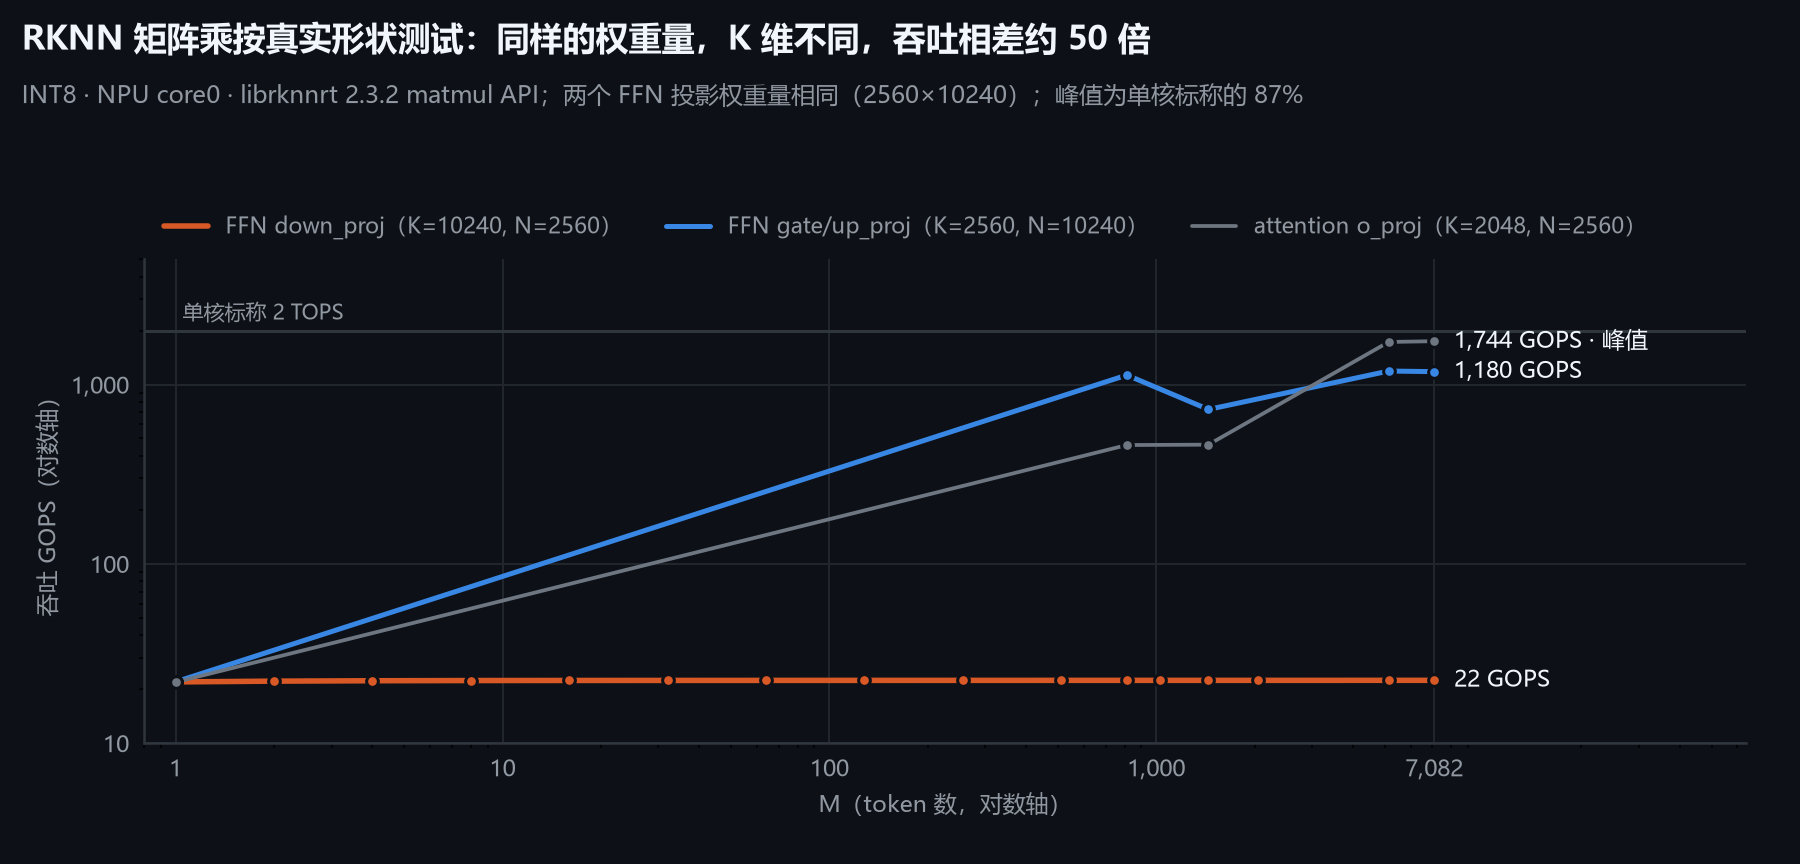
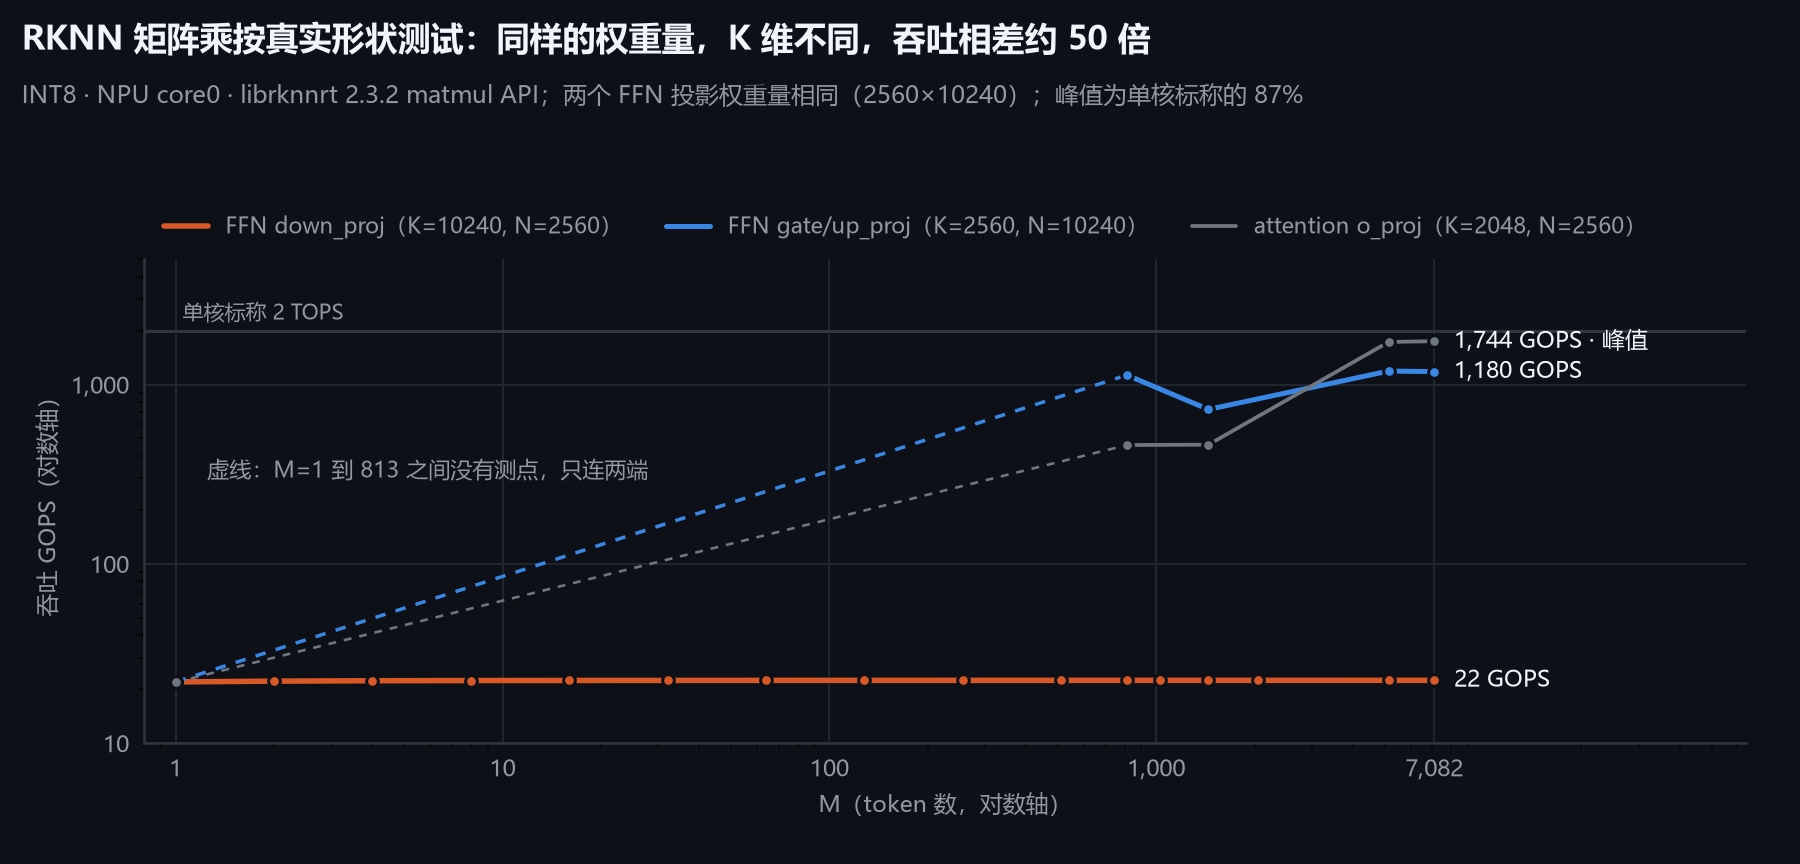
docs: 核心结果表把板端四行挪到最前；NPU 矩阵乘图里没有测点的一段改成虚线
gate/up_proj 和 o_proj 只测了 M = 1、813、1445、5142、7082，M=1 到 813 之间改成虚线并加注，
重新生成浅色、深色两张图。

diff --git a/docs/figures/make_figures.py b/docs/figures/make_figures.py
@@ -263,10 +263,17 @@ def fig_npu(t_name, t):
     for key, label, color, lw in lines:
         pts = sorted(s[key].items())
         xs, ys = [p[0] for p in pts], [p[1] for p in pts]
-        ax.plot(xs, ys, color=color, lw=lw, solid_capstyle="round", label=label, zorder=3)
+        # gate/up_proj and o_proj were only measured at M = 1, 813, 1445, 5142, 7082:
+        # nothing between 1 and 813, so that segment is dashed instead of implying a measured curve.
+        gap = len(xs) > 1 and xs[1] > 2
+        if gap:
+            ax.plot(xs[:2], ys[:2], color=color, lw=lw * 0.7, ls=(0, (3, 3)), zorder=3)
+        start = 1 if gap else 0
+        ax.plot(xs[start:], ys[start:], color=color, lw=lw, solid_capstyle="round", label=label, zorder=3)
         ax.scatter(xs, ys, s=22, color=color, edgecolor=t["surface"], linewidth=1.2, zorder=4)
         extra = " · 峰值" if key == (2048, 2560) else ""
         ax.text(xs[-1] * 1.15, ys[-1], f"{ys[-1]:,.0f} GOPS{extra}", fontsize=9, color=t["ink"], va="center")
+    ax.text(1.25, 330, "虚线：M=1 到 813 之间没有测点，只连两端", fontsize=8.8, color=t["ink2"], va="center")
     ax.set_xlim(0.8, 7082 * 9)
     ax.set_ylim(10, 5000)
     ax.set_xticks([1, 10, 100, 1000, 7082])

diff --git a/README.md b/README.md
@@ -13,13 +13,13 @@
 
 | 模块 | 结果 | 条件与基线 | 入口 |
 |---|---|---|---|
-| 数据治理 | 9 个来源 → **15.4 万条**规范 agent 轨迹 | 近重去重、13-gram 测试集去污染、脱敏、按源会话划分验证集 | [报告](docs/m0/05_data_pipeline.md) · [代码](scripts/m0/data/) |
-| SFT | 验证集 loss **1.630 → 0.839** | 双卡 DDP，QLoRA，4,096 步，token 加权损失 | [审计](results/m1/c01_s_completion_audit.md) |
-| 在线蒸馏 | 31B teacher → E4B student，**960 步** | teacher 由 vLLM 部署，rsLoRA，reverse-KL 近似目标 | [配置](configs/m1/t3_opd.yaml) |
 | 板端部署 | RKLLM **W8A8**，RK3588 NPU 单核 **16K 上下文**运行 | 补齐 54 个共享 KV 权重键，逐位校验 2,130 个张量 | [转换代码](scripts/operator/board/) |
 | 多核排障 | 定位为 **IOVA 4 GiB 窗口耗尽**（3 核缺口 44.9 MB） | ioctl 拦截 + ftrace 映射记录；CMA 仍有空闲 | [报告](docs/m0/06_board_smoke.md) |
 | ARM NEON | FP16 GEMV **5.84 → 2.92 ms（2.00×）** | 4×A76，K=10240、N=2560，较 GCC -O3 | [报告](docs/operator/EdgeForge_算子面_板端_OPE5_FP16_GEMV正式段报告_2026-09-21.md) |
 | NPU 评测 | 峰值 **1.74 TOPS**；down_proj 形状只有 **22 GOPS** | RKNN matmul API，INT8，core0，按模型真实形状 | [汇总表](results/operator/board/ope2/ope2_cells_20260918.csv) |
+| 数据治理 | 9 个来源 → **15.4 万条**规范 agent 轨迹 | 近重去重、13-gram 测试集去污染、脱敏、按源会话划分验证集 | [报告](docs/m0/05_data_pipeline.md) · [代码](scripts/m0/data/) |
+| SFT | 验证集 loss **1.630 → 0.839** | 双卡 DDP，QLoRA，4,096 步，token 加权损失 | [审计](results/m1/c01_s_completion_audit.md) |
+| 在线蒸馏 | 31B teacher → E4B student，**960 步** | teacher 由 vLLM 部署，rsLoRA，reverse-KL 近似目标 | [配置](configs/m1/t3_opd.yaml) |
 | GPU 算子 | Triton RMSNorm **2.51×**（较 eager） | 96 组形状、576 次正确性检查，隔离测试 | [实现](scripts/operator/k1_rmsnorm.py) |
 | 显存受限推理 | lm_head 镜像后每 token **143.4 → 119.8 ms（1.20×）** | 8 GB 显存，21,705 个 token 输出逐一一致，配对计时 | [裁决](docs/operator/EdgeForge_算子面_lm_head_执行裁决_R1.md) |
 
